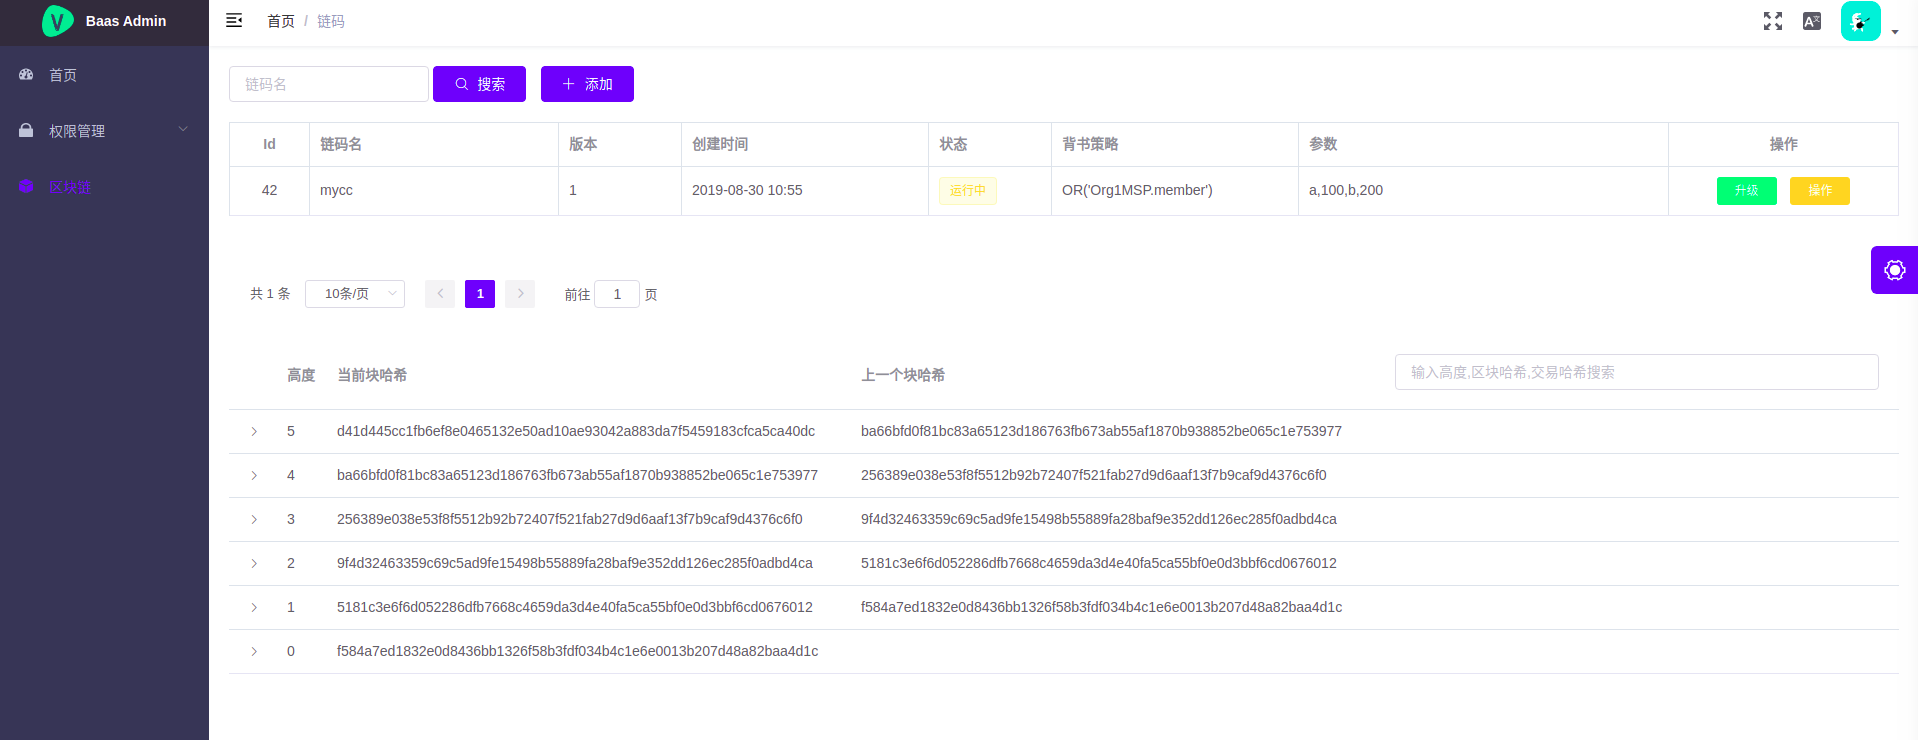
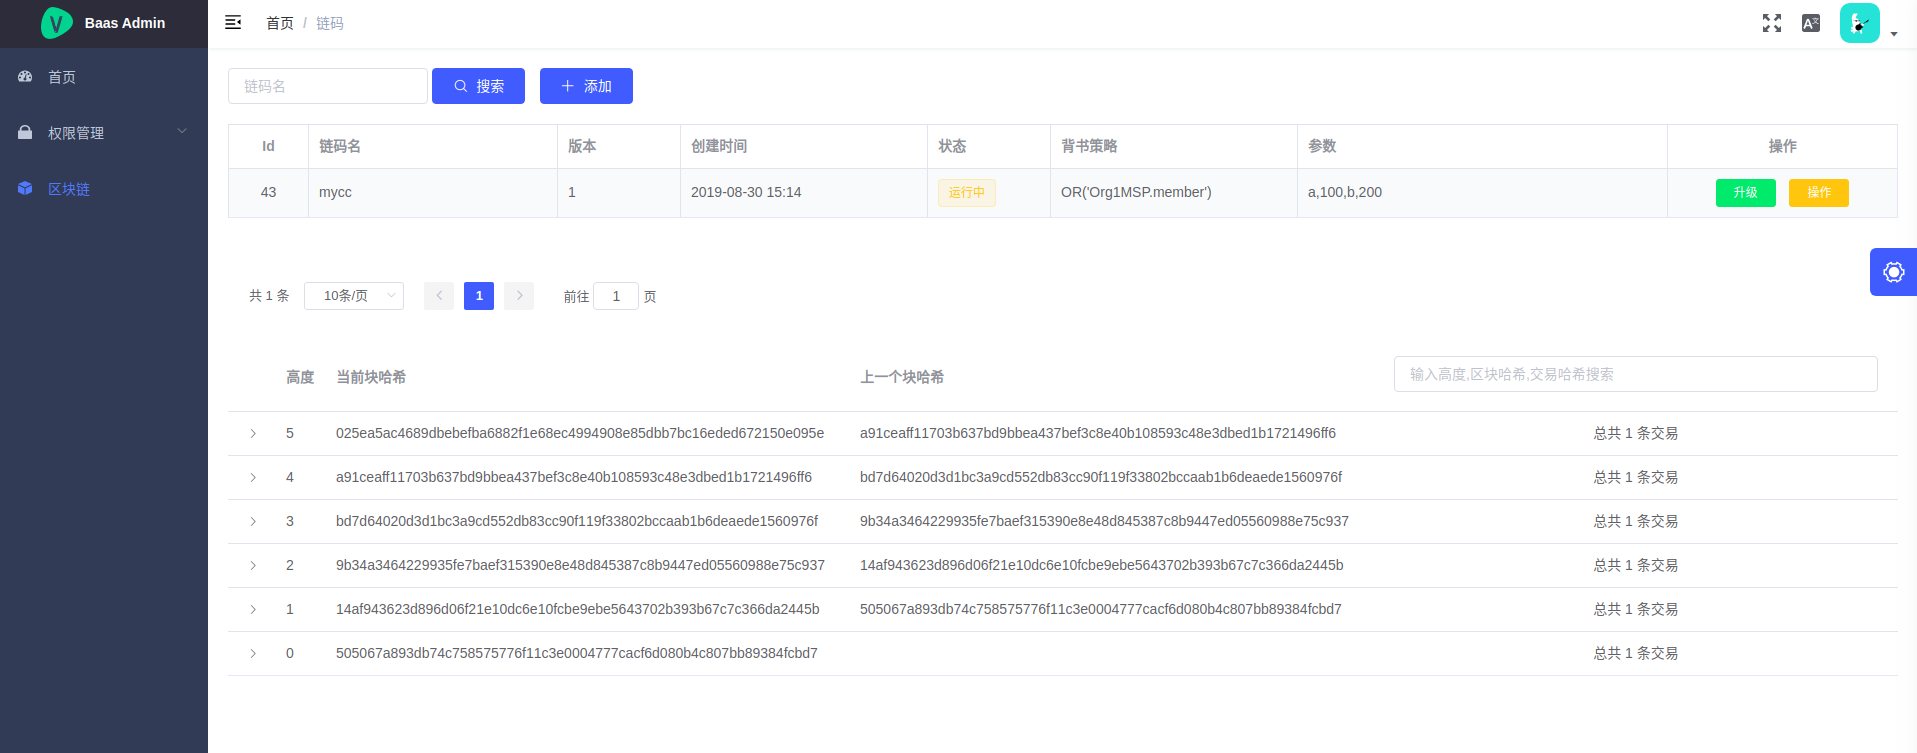
区块链浏览器

diff --git a/baas-frontend/src/views/baas/chaincode.vue b/baas-frontend/src/views/baas/chaincode.vue
@@ -201,7 +201,7 @@
         label="上一个块哈希"
       />
       <el-table-column
-        align="right"
+        align="center"
       >
         <template slot="header" slot-scope="scope">
           <el-input
@@ -209,6 +209,9 @@
             placeholder="输入高度,区块哈希,交易哈希搜索"
             @change="queryBlocks(scope)"
           />
+        </template>
+        <template slot-scope="scope">
+          <span>总共 {{ scope.row.transactions.length }} 条交易</span>
         </template>
       </el-table-column>
     </el-table>
@@ -243,7 +246,11 @@ export default {
       if (vm.search === '') {
         queryLatestBlocks(vm.channelId).then(response => {
           if (response.code === 0) {
-            vm.blockData = response.data
+            if (response.data.length > 0 && vm.blockData.length > 0) {
+              if (vm.blockData[0].number !== response.data[0].number) {
+                vm.blockData = response.data
+              }
+            }
           }
         })
       }
